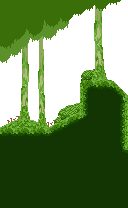
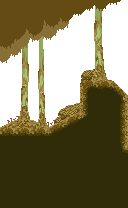
deCOrATiOnS

diff --git a/Assets/Scripts/LevelLoader.cs b/Assets/Scripts/LevelLoader.cs
@@ -35,17 +35,23 @@ public class LevelLoader : MonoBehaviour
          }
         
 
-        /*
-        GameObject left = Instantiate(Decorations[Random.Range(0,Decorations.Length - 1)], new Vector3(x - 1, y/2, -1), Quaternion.identity);
+
+        GameObject left = Instantiate(Decorations[1], new Vector3(x - 1, y/2, -1), Quaternion.identity);
         left.transform.SetParent(gameObject.transform);
-        left.transform.localPosition = new Vector3(-1, y/2,1);
+        left.transform.localPosition = new Vector3(-3.5f, 3,1);
+        left.transform.localScale = new Vector2(left.transform.localScale.x, left.transform.localScale.y);
 
-
-        GameObject right = Instantiate(Decorations[Random.Range(0,Decorations.Length - 1)], new Vector3(x - 1, y/2, -1), Quaternion.identity);
+        GameObject right = Instantiate(Decorations[0], new Vector3(x - 1, y/2, -1), Quaternion.identity);
         right.transform.SetParent(gameObject.transform);
-        right.transform.localPosition = new Vector3(level[0].Length, y/2,1);
+        right.transform.localPosition = new Vector3(level[0].Length+2.5f, 3,1);
         right.transform.localScale = new Vector2(-right.transform.localScale.x, right.transform.localScale.y);
-        */
+
+
+        GameObject floor = Instantiate(Decorations[2], new Vector3(x - 1, y/2, -1), Quaternion.identity);
+        floor.transform.SetParent(gameObject.transform);
+        floor.transform.localPosition = new Vector3(level[0].Length / 2, -1.5f,1);
+        floor.transform.localScale = new Vector2(  Mathf.Max(floor.transform.localScale.x, level[0].Length / (2 * tileSize.x)), floor.transform.localScale.y);
+        
 
         GameObject block = Instantiate(blocker, new Vector3(x - 1, y/2, -1), Quaternion.identity);
         block.transform.SetParent(gameObject.transform);

diff --git a/Assets/Scripts/DragObjects.cs b/Assets/Scripts/DragObjects.cs
@@ -12,6 +12,8 @@ public class DragObjects : MonoBehaviour
     GameObject gridRed;
     Collider2D collider;
 
+
+    bool drag = false;
     public bool canOnPlayer = false;
 
     SpriteRenderer spriteRenderer;
@@ -47,6 +49,7 @@ public class DragObjects : MonoBehaviour
 
             grid.SetActive(false);
             gridRed.SetActive(false);
+            drag = false;
     }
 
     void Update()
@@ -59,10 +62,15 @@ public class DragObjects : MonoBehaviour
             
             reachable = Vector3.Distance(gameObject.transform.position, player.transform.position);
             //Debug.Log(reachable);
-            if(reachable < 4){
+            if(reachable < 3.6f){
                 grid.SetActive(true);
             transform.Translate(new Vector2(Mathf.Round(mousePosition.x), Mathf.Round(mousePosition.y)));
+            drag = true;
 
+            }else if(!drag && reachable < 4){
+                grid.SetActive(true);
+            transform.Translate(new Vector2(Mathf.Round(mousePosition.x), Mathf.Round(mousePosition.y)));
+            drag = true;
             }else{
                 gridRed.SetActive(true);
             }
